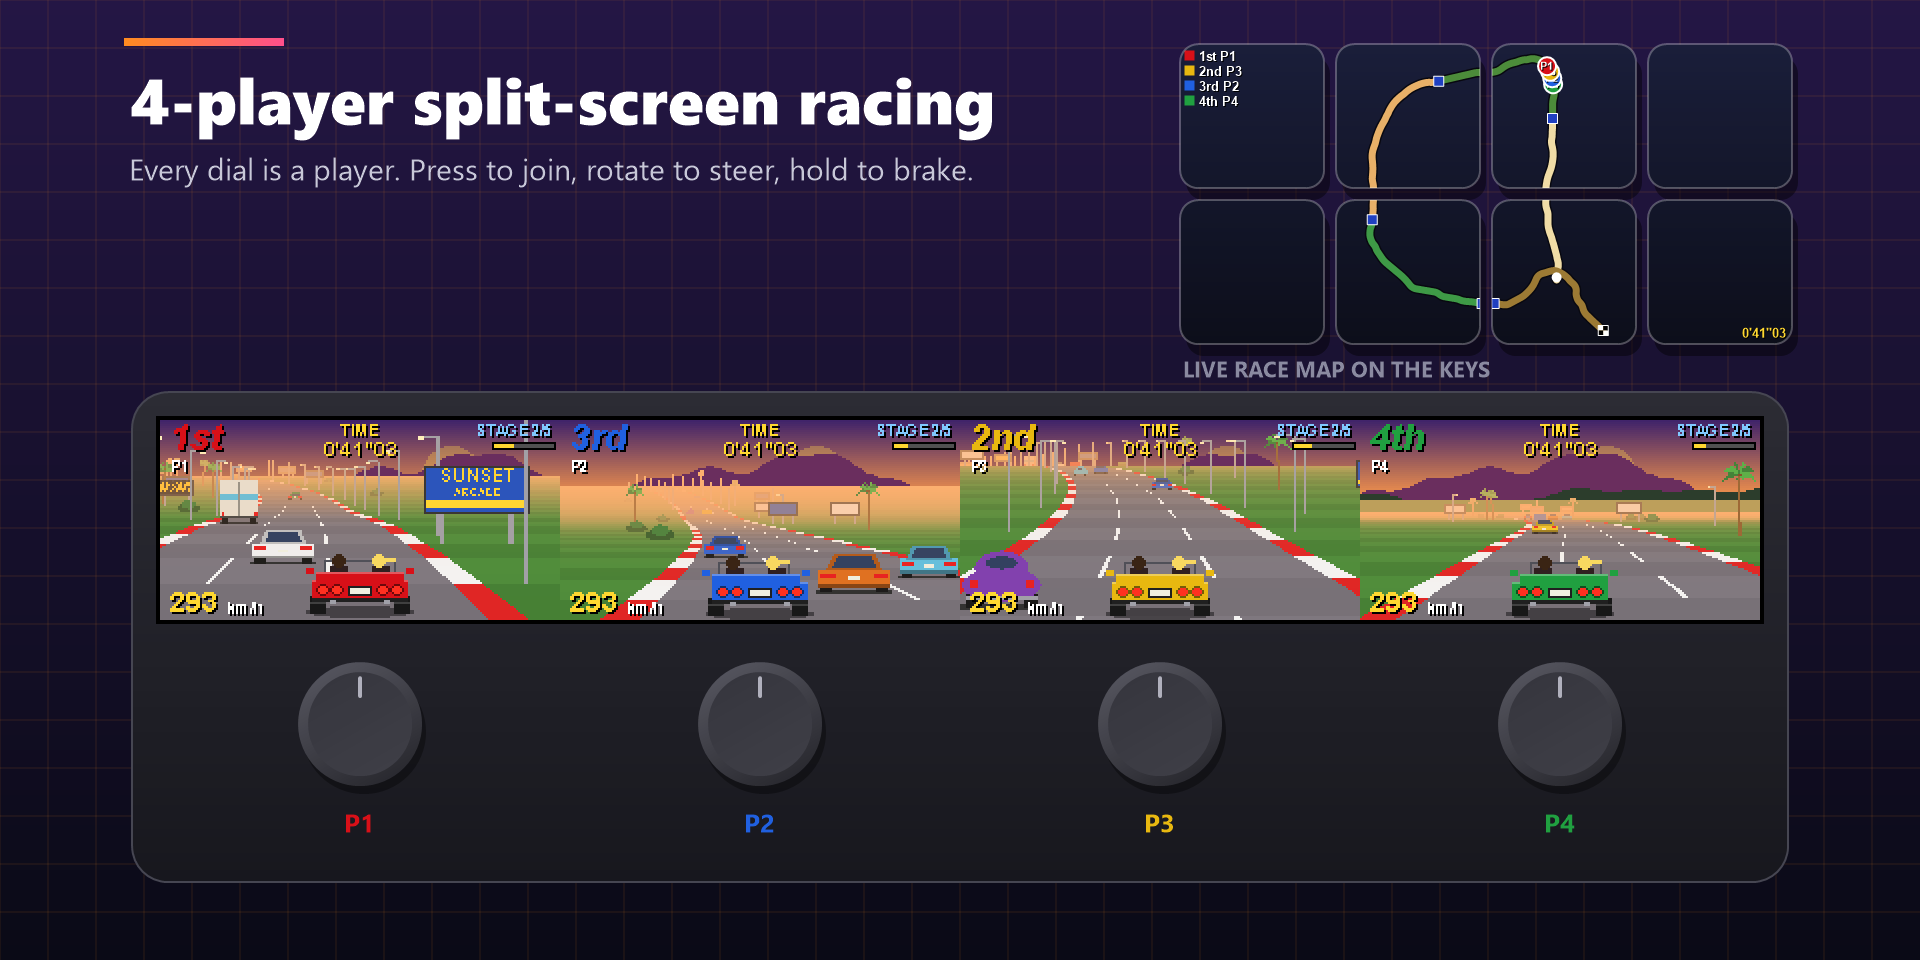
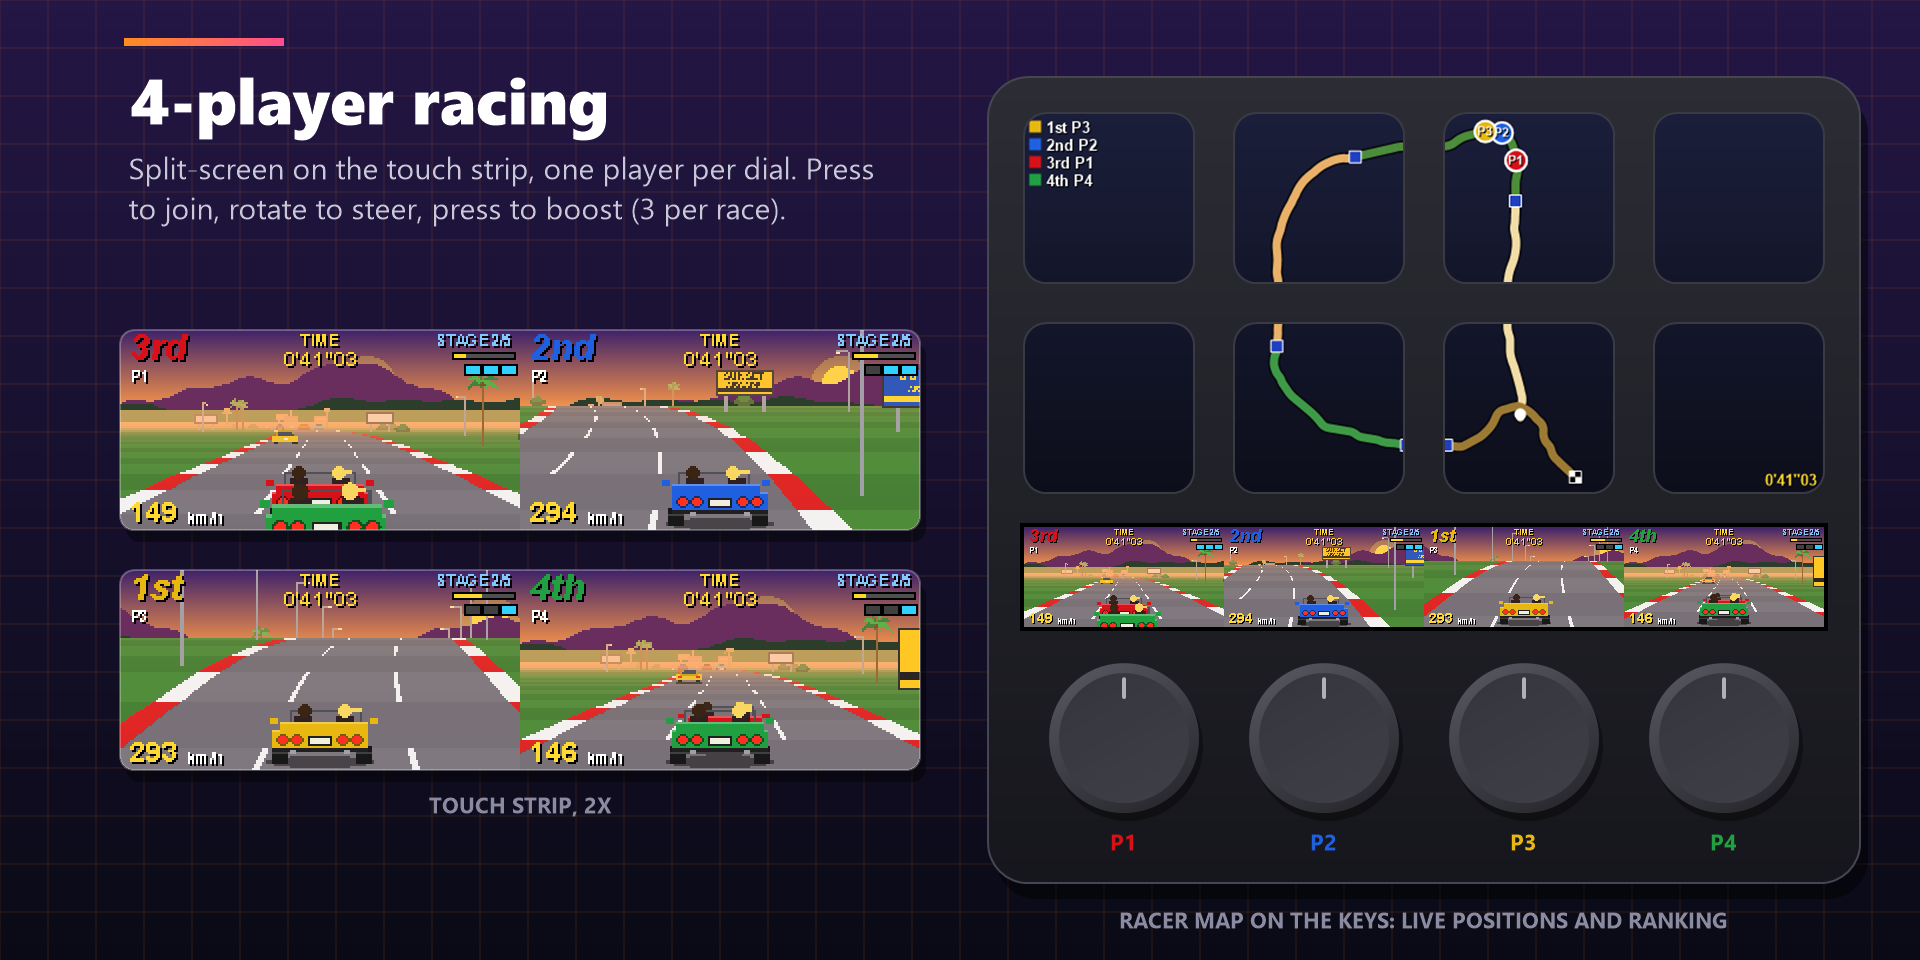
Marketplace: redraw gallery with a true Stream Deck+ and expand the listing
Elgato review asked for accurate Elgato hardware in the media and a fuller description. The composer now draws the full Stream Deck+ (8 keys, 800x100 touch strip, 4 dials) at 1:1 with 2x strip close-ups, drops the stale 'hold to brake' text, and shows Racer Map on the keys. The description lists every action, setup tips, requirements and an AI-assistance note, within the 1500-character limit. Adds release notes for 1.0.0.

diff --git a/tools/shots/Compose.cs b/tools/shots/Compose.cs
@@ -57,16 +57,25 @@ namespace MiniGame
 
         static Font F(float px, FontStyle st = FontStyle.Regular, string fam = "Segoe UI") => new Font(fam, px, st, GraphicsUnit.Pixel);
 
-        static void Title(Graphics g, string title, string sub, float x = 120, float y = 56)
+        // 標題 + 副標題，副標題超過 maxW 會自動換行
+        static void Title(Graphics g, string title, string sub, float x = 120, float y = 56, float maxW = 1600)
         {
             using (var f = F(64, FontStyle.Regular, "Segoe UI Black"))
             using (var b = new SolidBrush(Color.White))
                 g.DrawString(title, f, b, x, y);
             using (var f = F(30))
             using (var b = new SolidBrush(Text2))
-                g.DrawString(sub, f, b, x + 4, y + 92);
+                g.DrawString(sub, f, b, new RectangleF(x + 4, y + 92, maxW, 200));
             using (var b = new LinearGradientBrush(new RectangleF(x + 4, y - 18, 160, 8), Orange, Pink, 0f))
                 g.FillRectangle(b, x + 4, y - 18, 160, 8);
+        }
+
+        static void Caption(Graphics g, string text, float x, float y, float w)
+        {
+            using (var f = F(22, FontStyle.Bold))
+            using (var b = new SolidBrush(Dim))
+            using (var fmt = new StringFormat { Alignment = StringAlignment.Center })
+                g.DrawString(text, f, b, new RectangleF(x, y, w, 40), fmt);
         }
 
         static GraphicsPath Round(RectangleF r, float rad)
@@ -93,40 +102,80 @@ namespace MiniGame
             g.PixelOffsetMode = po;
         }
 
-        // 觸控條 + 下面四顆旋鈕，scale 2 時觸控條 1600x200
-        static void Strip(Graphics g, Image strip, float top, string[] labels = null, Color[] colors = null)
+        static void Dial(Graphics g, float cx, float cy, float r)
         {
-            float sw = 1600, sh = 200, x = (W - sw) / 2;
-            using (var body = Round(new RectangleF(x - 28, top - 28, sw + 56, sh + 290), 36))
+            using (var sh = new SolidBrush(Color.FromArgb(90, 0, 0, 0))) g.FillEllipse(sh, cx - r + 4, cy - r + 8, r * 2, r * 2);
+            using (var b = new LinearGradientBrush(new RectangleF(cx - r, cy - r, r * 2, r * 2), Color.FromArgb(0x5A, 0x5A, 0x64), Color.FromArgb(0x22, 0x22, 0x28), 60f))
+                g.FillEllipse(b, cx - r, cy - r, r * 2, r * 2);
+            using (var b = new LinearGradientBrush(new RectangleF(cx - r, cy - r, r * 2, r * 2), Color.FromArgb(0x34, 0x34, 0x3C), Color.FromArgb(0x40, 0x40, 0x48), 60f))
+                g.FillEllipse(b, cx - r + 10, cy - r + 10, r * 2 - 20, r * 2 - 20);
+            using (var p = new Pen(Color.FromArgb(0xB0, 0xB0, 0xBC), 4) { StartCap = LineCap.Round, EndCap = LineCap.Round })
+                g.DrawLine(p, cx, cy - r + 16, cx, cy - r + 34);
+        }
+
+        // 完整的 Stream Deck+，1:1 比例（觸控條 800x100）：上面 4x2 顆按鍵、中間觸控條、下面四顆旋鈕
+        const float Key = 170, KeyGap = 40, Bez = 36, StripW = 800, StripH = 100, DialR = 75;
+        const float DevW = StripW + 2 * Bez;                               // 872
+        const float KeysH = 2 * Key + KeyGap;                              // 380
+        const float DevH = Bez + KeysH + 34 + StripH + 36 + 2 * DialR + 70; // 806
+
+        // keys：4x2 顆按鍵的畫面，每顆 144x144，可為 null（按鍵全黑）
+        static void Device(Graphics g, float x, float y, Image strip, Image keys = null, string[] labels = null, Color[] colors = null)
+        {
+            using (var body = Round(new RectangleF(x, y, DevW, DevH), 40))
             {
-                using (var b = new LinearGradientBrush(new RectangleF(x, top - 30, sw, sh + 320), Color.FromArgb(0x2C, 0x2C, 0x34), Color.FromArgb(0x16, 0x16, 0x1C), 90f))
+                using (var sh = new SolidBrush(Color.FromArgb(120, 0, 0, 0)))
+                using (var shp = Round(new RectangleF(x + 8, y + 16, DevW, DevH), 40))
+                    g.FillPath(sh, shp);
+                using (var b = new LinearGradientBrush(new RectangleF(x, y, DevW, DevH), Color.FromArgb(0x2C, 0x2C, 0x34), Color.FromArgb(0x16, 0x16, 0x1C), 90f))
                     g.FillPath(b, body);
                 using (var p = new Pen(Color.FromArgb(0x46, 0x46, 0x52), 2)) g.DrawPath(p, body);
             }
-            g.FillRectangle(Brushes.Black, x - 4, top - 4, sw + 8, sh + 8);
-            Pixel(g, strip, x, top, sw, sh);
 
+            // 按鍵
+            for (int r = 0; r < 2; r++)
+                for (int c = 0; c < 4; c++)
+                {
+                    float kx = x + Bez + c * (Key + KeyGap), ky = y + Bez + r * (Key + KeyGap);
+                    using (var path = Round(new RectangleF(kx, ky, Key, Key), 22))
+                    {
+                        using (var b = new SolidBrush(Color.FromArgb(0x08, 0x08, 0x0A))) g.FillPath(b, path);
+                        if (keys != null)
+                        {
+                            var st = g.Save();
+                            g.SetClip(path);
+                            g.InterpolationMode = InterpolationMode.HighQualityBicubic;
+                            g.DrawImage(keys, new RectangleF(kx, ky, Key, Key), new RectangleF(c * 144, r * 144, 144, 144), GraphicsUnit.Pixel);
+                            g.Restore(st);
+                        }
+                        using (var p = new Pen(Color.FromArgb(0x3A, 0x3A, 0x44), 2)) g.DrawPath(p, path);
+                    }
+                }
+
+            // 觸控條
+            float sx = x + Bez, sy = y + Bez + KeysH + 34;
+            g.FillRectangle(Brushes.Black, sx - 4, sy - 4, StripW + 8, StripH + 8);
+            Pixel(g, strip, sx, sy, StripW, StripH);
+
+            // 旋鈕
+            float cy = sy + StripH + 36 + DialR;
             for (int i = 0; i < 4; i++)
             {
-                float cx = x + 200 + i * 400, cy = top + sh + 104, r = 62;
-                using (var sh2 = new SolidBrush(Color.FromArgb(90, 0, 0, 0))) g.FillEllipse(sh2, cx - r + 4, cy - r + 8, r * 2, r * 2);
-                using (var b = new LinearGradientBrush(new RectangleF(cx - r, cy - r, r * 2, r * 2), Color.FromArgb(0x5A, 0x5A, 0x64), Color.FromArgb(0x22, 0x22, 0x28), 60f))
-                    g.FillEllipse(b, cx - r, cy - r, r * 2, r * 2);
-                using (var b = new LinearGradientBrush(new RectangleF(cx - r, cy - r, r * 2, r * 2), Color.FromArgb(0x34, 0x34, 0x3C), Color.FromArgb(0x40, 0x40, 0x48), 60f))
-                    g.FillEllipse(b, cx - r + 10, cy - r + 10, r * 2 - 20, r * 2 - 20);
-                using (var p = new Pen(Color.FromArgb(0xB0, 0xB0, 0xBC), 4) { StartCap = LineCap.Round, EndCap = LineCap.Round })
-                    g.DrawLine(p, cx, cy - r + 16, cx, cy - r + 34);
-
+                float cx = sx + 100 + i * 200;
+                Dial(g, cx, cy, DialR);
                 if (labels != null && labels[i] != null)
                 {
                     Color c = colors != null ? colors[i] : Color.White;
-                    using (var f = F(26, FontStyle.Bold))
+                    using (var f = F(22, FontStyle.Bold))
                     using (var b = new SolidBrush(c))
                     using (var fmt = new StringFormat { Alignment = StringAlignment.Center })
-                        g.DrawString(labels[i], f, b, cx, cy + r + 18, fmt);
+                        g.DrawString(labels[i], f, b, cx, cy + DialR + 14, fmt);
                 }
             }
         }
+
+        // 右邊放裝置，左邊放標題和 2 倍大的觸控條特寫
+        const float DevX = W - 60 - DevW, DevY = (H - DevH) / 2, LeftW = 800;
 
         static void Card(Graphics g, Image img, float x, float y, float w, float h, float rad = 14)
         {
@@ -197,27 +246,16 @@ namespace MiniGame
         {
             var bmp = new Bitmap(W, H);
             var g = Begin(bmp);
-            Title(g, "4-player split-screen racing", "Every dial is a player. Press to join, rotate to steer, press to boost.");
-
+            Title(g, "4-player racing", "Split-screen on the touch strip, one player per dial. Press to join, rotate to steer, press to boost (3 per race).", maxW: LeftW);
+            using (var race = Img("race_20"))
             using (var map = Img("map_20"))
             {
-                // 8 顆按鍵 = 一張大地圖
-                float kx = 1180, ky = 44, k = 144, gap = 12;
-                using (var f = F(22, FontStyle.Bold))
-                using (var b = new SolidBrush(Dim))
-                    g.DrawString("LIVE RACE MAP ON THE KEYS", f, b, kx, ky + 2 * k + gap + 10);
-                for (int r = 0; r < 2; r++)
-                    for (int c = 0; c < 4; c++)
-                    {
-                        using (var tile = new Bitmap(144, 144))
-                        {
-                            using (var tg = Graphics.FromImage(tile)) tg.DrawImage(map, new Rectangle(0, 0, 144, 144), new Rectangle(c * 144, r * 144, 144, 144), GraphicsUnit.Pixel);
-                            Card(g, tile, kx + c * (k + gap), ky + r * (k + gap), k, k, 18);
-                        }
-                    }
+                using (var a = Crop(race, 0, 400)) Card(g, a, 120, 330, 800, 200);
+                using (var b = Crop(race, 400, 400)) Card(g, b, 120, 570, 800, 200);
+                Caption(g, "TOUCH STRIP, 2X", 120, 790, 800);
+                Device(g, DevX, DevY, race, map, new[] { "P1", "P2", "P3", "P4" }, RacerConst.PlayerColors);
+                Caption(g, "RACER MAP ON THE KEYS: LIVE POSITIONS AND RANKING", DevX, DevY + DevH + 22, DevW);
             }
-            using (var race = Img("race_20"))
-                Strip(g, race, 420, new[] { "P1", "P2", "P3", "P4" }, RacerConst.PlayerColors);
             End(g, bmp, "gallery-1-racer-4p");
         }
 
@@ -226,10 +264,15 @@ namespace MiniGame
         {
             var bmp = new Bitmap(W, H);
             var g = Begin(bmp);
-            Title(g, "2-player foosball", "One table across the whole touch strip. Rotate to slide the rods, press to kick.");
+            Title(g, "2-player foosball", "One table across the whole touch strip. Red plays dials 1 and 3, blue plays dials 2 and 4. Rotate to slide the rods, press to kick, hold to lift.", maxW: LeftW);
             Color red = Color.FromArgb(0xFF, 0x5A, 0x5A), blue = Color.FromArgb(0x6A, 0xA8, 0xFF);
             using (var fo = Img("foosball"))
-                Strip(g, fo, 330,new[] { "RED", "BLUE", "RED", "BLUE" }, new[] { red, blue, red, blue });
+            {
+                using (var a = Crop(fo, 0, 400)) Card(g, a, 120, 330, 800, 200);
+                using (var b = Crop(fo, 400, 400)) Card(g, b, 120, 570, 800, 200);
+                Caption(g, "TOUCH STRIP, 2X", 120, 790, 800);
+                Device(g, DevX, DevY, fo, null, new[] { "RED", "BLUE", "RED", "BLUE" }, new[] { red, blue, red, blue });
+            }
             End(g, bmp, "gallery-2-foosball");
         }
 
@@ -238,7 +281,7 @@ namespace MiniGame
         {
             var bmp = new Bitmap(W, H);
             var g = Begin(bmp);
-            Title(g, "One dial, one game", "Breakout, Snake and Sunset Racer each run on a single dial. Mix and match.");
+            Title(g, "One dial, one game", "Breakout, Snake and Sunset Racer each run on a single dial. Mix and match across the four dials.", maxW: LeftW);
             using (var strip = new Bitmap(800, 100))
             {
                 using (var sg = Graphics.FromImage(strip))
@@ -249,7 +292,12 @@ namespace MiniGame
                     using (var p = new Pen(Color.FromArgb(0x3A, 0x3A, 0x44), 1))
                         for (int i = 1; i < 4; i++) sg.DrawLine(p, i * 200 - 0.5f, 0, i * 200 - 0.5f, 100);
                 }
-                Strip(g, strip, 330, new[] { "Breakout", "Snake", "Sunset Racer", "Sunset Racer" }, new[] { Color.White, Color.White, Color.White, Color.White });
+                using (var br = Img("breakout")) Card(g, br, 120, 330, 400, 200);
+                using (var sn = Img("snake")) Card(g, sn, 120, 570, 400, 200);
+                using (var st = Img("stage_1")) Card(g, st, 560, 330, 400, 200);
+                using (var st = Img("stage_4")) Card(g, st, 560, 570, 400, 200);
+                Caption(g, "TOUCH STRIP, 2X", 120, 790, 840);
+                Device(g, DevX, DevY, strip, null, new[] { "Breakout", "Snake", "Sunset Racer", "Sunset Racer" }, new[] { Color.White, Color.White, Color.White, Color.White });
             }
             End(g, bmp, "gallery-3-classics");
         }
@@ -259,7 +307,7 @@ namespace MiniGame
         {
             var bmp = new Bitmap(W, H);
             var g = Begin(bmp);
-            Title(g, "Five stages to the goal", "Sunset Racer is a pseudo-3D arcade racer with hills, curves and traffic.");
+            Title(g, "Five stages to the goal", "Sunset Racer is a pseudo-3D arcade racer with hills, curves and traffic. Reach each checkpoint before time runs out.");
             string[] names = { "PALM BEACH", "SUNSET COAST", "DESERT", "ALPINE PASS", "AUTUMN ROAD" };
             float w = 400, h = 200, gap = 44;
             for (int s = 0; s < 5; s++)

diff --git a/marketplace/listing.md b/marketplace/listing.md
@@ -6,28 +6,53 @@ Sunset Arcade
 
 ## Description
 
-Sunset Arcade turns the Stream Deck+ touch strip and dials into a tiny arcade. Play Breakout, Snake, Foosball and Sunset Racer, a pseudo-3D racer with hills, curves and traffic, right on your desk. Every game is drawn live on the touch strip and played with the dials.
+Sunset Arcade turns the Stream Deck+ touch strip and dials into a tiny arcade. Play Breakout, Snake, 2-player Foosball and Sunset Racer, a pseudo-3D arcade racer with hills, curves and traffic, right on your desk. Every frame is drawn live on the touch strip and every game is played with the dials, so there is no window to keep open.
 
-Games
+What is included
 - Breakout: rotate a dial to move the paddle, press to launch the ball.
-- Snake: rotate to turn, press to start or pause.
-- Foosball: a 2-player table across the whole touch strip. Red uses dials 1 and 3, blue uses dials 2 and 4. Rotate to slide the rods, press to kick.
-- Sunset Racer: a retro arcade racer on a single dial. Rotate to steer, press the dial for a speed boost (3 per race), and reach each checkpoint before time runs out across five stages.
-- Sunset Racer 4P: split-screen racing for up to four players, one per dial. Press to join; the race starts 10 seconds after the first player joins.
-- Racer Map: put it on the keys to show a live map of the race with every player's position.
+- Snake: rotate to turn, press to start or pause. Your best score is kept.
+- Foosball: a 2-player table across the whole strip. Red plays dials 1 and 3, blue plays dials 2 and 4. Rotate to slide the rods, press to kick, hold to lift. First to 5 wins.
+- Sunset Racer: rotate to steer, press for a speed boost (3 per race) and reach each checkpoint in time. Five stages, from Palm Beach to Autumn Road.
+- Sunset Racer 4P: split-screen racing for up to four players, one per dial. Press to join.
+- Racer Map: a live top-down map of the race with every player's position and ranking. Put it on several keys for one big map. Press to zoom on the leader.
+
+Setup tips
+- Drag a game onto a dial. Foosball and Racer 4P need all four dials of one page.
+- Touch the strip to pause or resume, long-touch to restart or return to the title.
 
 Requirements
-- Stream Deck+ (the games use the dials and touch strip)
-- Windows 10 or later
-- Stream Deck 7.1 or later
+- Stream Deck+ (the games need its dials and touch strip)
+- Stream Deck 7.1 or later, on Windows 10 or macOS 12 or later
+
+Code and text written with AI assistance (Claude). All graphics are drawn by the plugin; no AI-generated images.
 
 ## Images
+
+All images are rendered by `tools/shots` from the real game code. The device in the gallery is a Stream Deck+ at its true layout: 8 keys, the 800 x 100 touch strip, 4 dials.
 
 | File | Use |
 |---|---|
 | icon-288.png | App icon, 288 x 288 |
 | thumbnail.png | Thumbnail, 1920 x 960 |
-| gallery-1-racer-4p.png | Gallery, 1920 x 960 |
-| gallery-2-foosball.png | Gallery, 1920 x 960 |
-| gallery-3-classics.png | Gallery, 1920 x 960 |
-| gallery-4-stages.png | Gallery, 1920 x 960 |
+| gallery-1-racer-4p.png | Gallery, 1920 x 960: Sunset Racer 4P on the strip, Racer Map on the keys |
+| gallery-2-foosball.png | Gallery, 1920 x 960: Foosball |
+| gallery-3-classics.png | Gallery, 1920 x 960: Breakout, Snake and Sunset Racer on single dials |
+| gallery-4-stages.png | Gallery, 1920 x 960: the five Sunset Racer stages |
+
+## Release notes (1.0.0)
+
+First release of Sunset Arcade for Stream Deck+.
+
+Included
+- Breakout, Snake, 2-player Foosball and Sunset Racer, all drawn live on the touch strip and played with the dials.
+- Sunset Racer 4P: split-screen racing for up to four players, one per dial.
+- Racer Map: a live race map on the keys with every player's position and ranking.
+
+Requires Stream Deck+ and Stream Deck 7.1 or later on Windows 10 or macOS 12 or later.
+
+Resubmission: same plugin file and version (1.0.0.0). The description now covers every action, setup tips and requirements, and the gallery images were redone to show the Stream Deck+ accurately (8 keys, touch strip, 4 dials) with current in-game text.
+
+## Submission notes
+
+- The Marketplace keeps the version of a product entry fixed. A re-uploaded `.streamDeckPlugin` must carry the same `Version` as the entry it replaces; a higher version has to be submitted as a new version of the product.
+- Elgato's product guidelines: https://docs.elgato.com/guidelines/products (description, gallery, AI usage).
